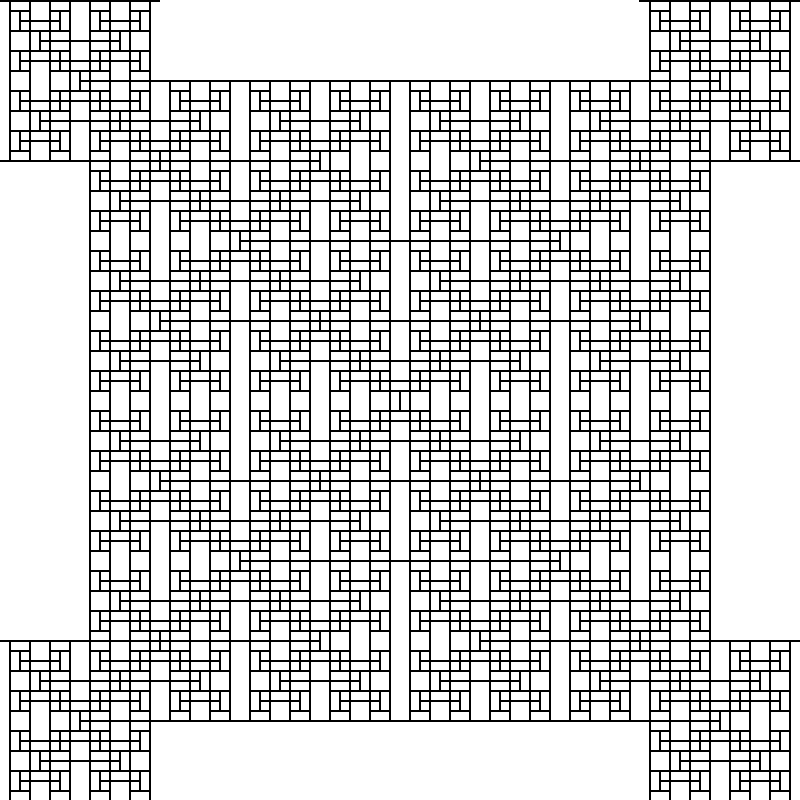
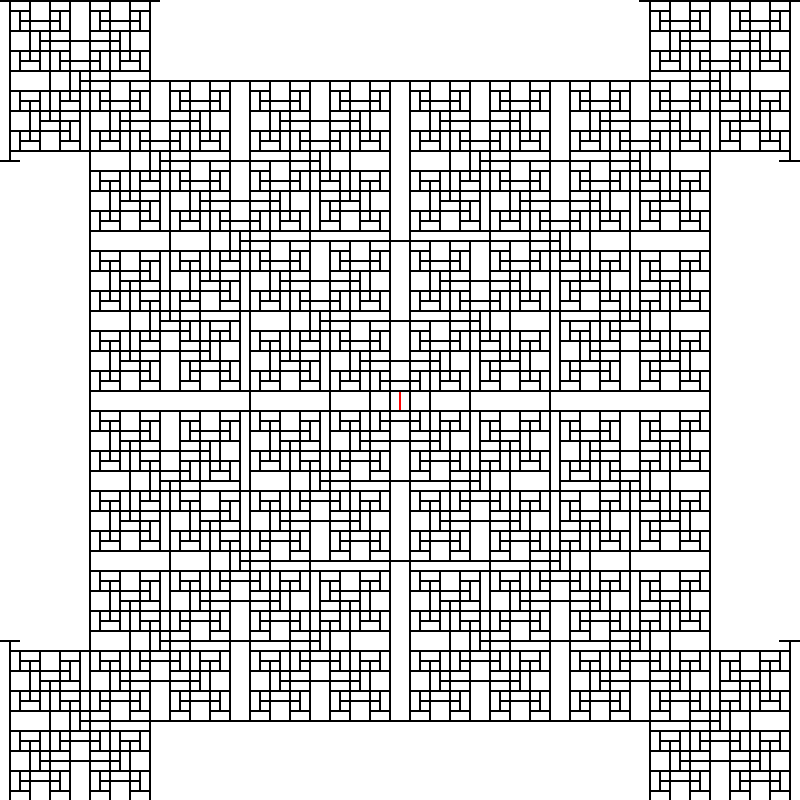
toothpick: working!

diff --git a/Toothpick.py b/Toothpick.py
@@ -15,24 +15,32 @@ class ToothpickDiagram:
 	def generate(self):
 		imageWidth, imageHeight = self.image.size
 		toothpicks = []
+		openToothpicks = []
 		#initialize
-		toothpicks.append(Toothpick(Point(imageWidth/2 - Toothpick.thickness/2, imageHeight/2 - Toothpick.length/2), Point(imageWidth/2 - Toothpick.thickness/2, imageHeight/2 + Toothpick.length/2)))
+		firstToothpick = Toothpick(Point(imageWidth/2 - Toothpick.thickness/2, imageHeight/2 - Toothpick.length/2), Point(imageWidth/2 - Toothpick.thickness/2, imageHeight/2 + Toothpick.length/2), 'red')
+		toothpicks.append(firstToothpick)
+		openToothpicks.append(firstToothpick)
 		#loop
 		while(True):
 			newToothpicks = []
 			for toothpick in toothpicks:
 				if toothpick.pointAOpen:
-					newToothpicks.append(toothpick.getExtensionA())
+					newToothpick = toothpick.getExtensionA('black')
+					newToothpicks.append(newToothpick)
+					openToothpicks.append(newToothpick)
 				if toothpick.pointBOpen:
-					newToothpicks.append(toothpick.getExtensionB())
+					newToothpick = toothpick.getExtensionB('black')
+					newToothpicks.append(newToothpick)
+					openToothpicks.append(newToothpick)
 			outOfBounds = False
 			for toothpick in newToothpicks:
 				if toothpick.isOutOfBounds(imageWidth, imageHeight):
 					outOfBounds = True
 			toothpicks.extend(newToothpicks)
-			for toothpick in newToothpicks:
+			for toothpick in openToothpicks:
 				for otherToothpick in toothpicks:
-					otherToothpick.updateOpen(toothpick)
+					toothpick.updateOpen(otherToothpick)
+			openToothpicks = list(filter(lambda x: x.isOpen(), openToothpicks))
 			if outOfBounds:
 				break
 		#draw
@@ -43,11 +51,14 @@ class Toothpick:
 	thickness = 2
 	length = 20
 	#points are the center of each end of toothpick
-	def __init__(self, pointA, pointB):
+	def __init__(self, pointA, pointB, color):
 		self.pointA = pointA
 		self.pointB = pointB
 		self.pointAOpen = True
 		self.pointBOpen = True
+		self.color = color
+	def isOpen(self):
+		return (self.pointAOpen or self.pointBOpen)
 	def isHorizontal(self):
 		return self.pointA.y == self.pointB.y
 	def isVertical(self):
@@ -69,21 +80,21 @@ class Toothpick:
 	def equals(self, other):
 		return self.pointA.equals(other.pointA) and self.pointB.equals(other.pointB)
 	#returns the toothpick that is perpendicular to and centered on End A
-	def getExtensionA(self):
+	def getExtensionA(self, color):
 		if(self.isHorizontal()):
-			return Toothpick(Point(self.pointA.x, self.pointA.y - Toothpick.length/2), Point(self.pointA.x, self.pointA.y + Toothpick.length/2));
+			return Toothpick(Point(self.pointA.x, self.pointA.y - Toothpick.length/2), Point(self.pointA.x, self.pointA.y + Toothpick.length/2), color);
 		else:
-			return Toothpick(Point(self.pointA.x - Toothpick.length/2, self.pointA.y), Point(self.pointA.x + Toothpick.length/2, self.pointA.y));
+			return Toothpick(Point(self.pointA.x - Toothpick.length/2, self.pointA.y), Point(self.pointA.x + Toothpick.length/2, self.pointA.y), color);
 	#returns the toothpick that is perpendicular to and centered on End B
-	def getExtensionB(self):
+	def getExtensionB(self, color):
 		if(self.isHorizontal()):
-			return Toothpick(Point(self.pointB.x, self.pointB.y - Toothpick.length/2), Point(self.pointB.x, self.pointB.y + Toothpick.length/2));
+			return Toothpick(Point(self.pointB.x, self.pointB.y - Toothpick.length/2), Point(self.pointB.x, self.pointB.y + Toothpick.length/2), color);
 		else:
-			return Toothpick(Point(self.pointB.x - Toothpick.length/2, self.pointB.y), Point(self.pointB.x + Toothpick.length/2, self.pointB.y));
+			return Toothpick(Point(self.pointB.x - Toothpick.length/2, self.pointB.y), Point(self.pointB.x + Toothpick.length/2, self.pointB.y), color);
 	def isOutOfBounds(self, width, height):
 		return (self.pointA.isOutOfBounds(width, height) or self.pointB.isOutOfBounds(width, height))
 	def draw(self, drawObject):
-		drawObject.line([self.pointA.toTuple(), self.pointB.toTuple()], fill='black', width=Toothpick.thickness)
+		drawObject.line([self.pointA.toTuple(), self.pointB.toTuple()], fill=self.color, width=Toothpick.thickness)
 		
 class Point:
 	def __init__(self, x, y):
